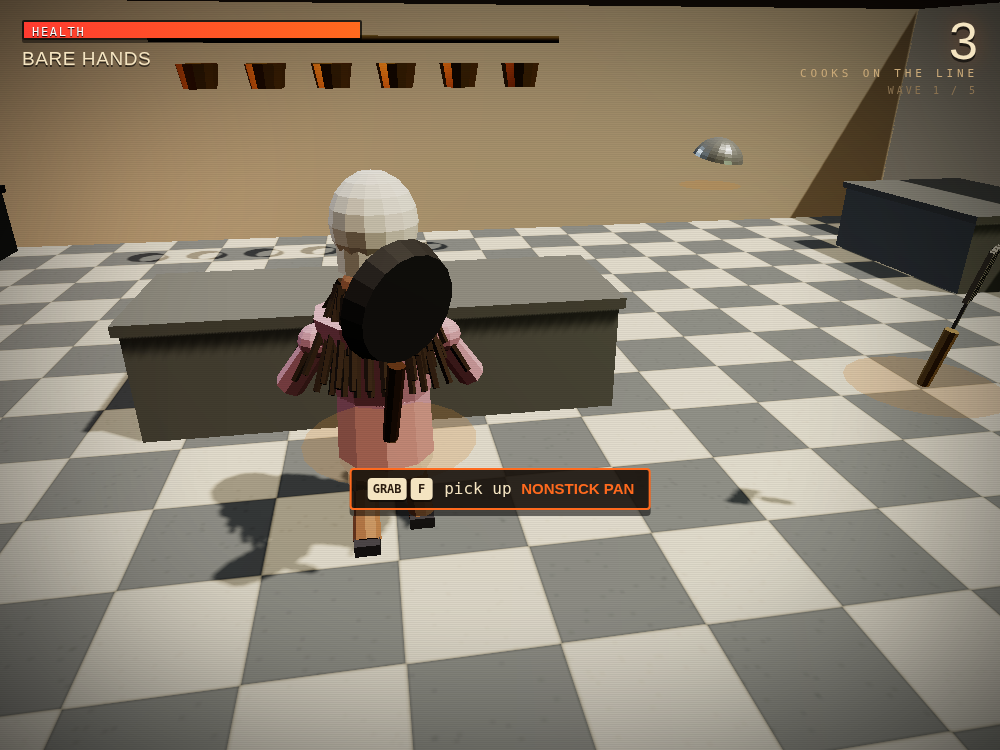
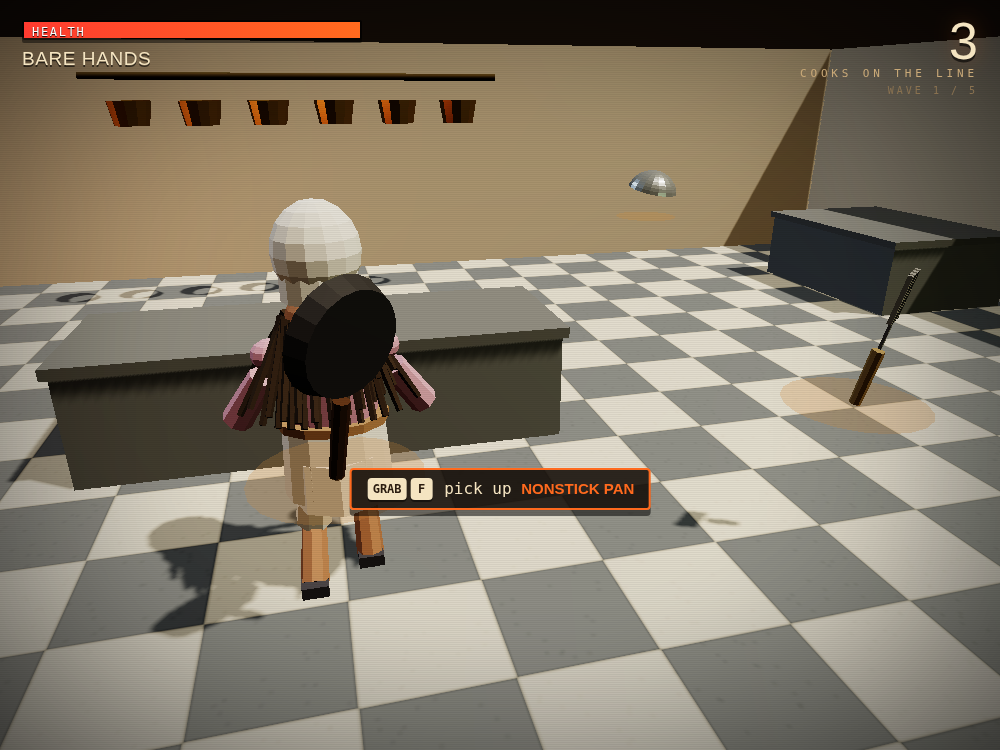
Rebuild the chef torso from her actual model, split at the waist
Direct answer to the developer's question ("why do we need to change the
model, can we not just rig the old model to short order"): we don't --
this replaces Short Order's generic torso cylinders with her real body
shapes outright, not a recolored/decorated approximation.

Split at the same two points Short Order's own code needs to grab
independently: `abMesh` (body-level; abMesh.rotation.x drives the
waist-bend animation) and `torso` (upper-level; the ragdoll's chest bone,
directly re-oriented via orientBone(u.torso, hipMid, shMid)). Both stay
individually-addressable Groups so those keep working. Everything above
the waist in her model -- core body, shoulder caps, neck, collar, waist
tie -- is now `torso`; her wrap-around apron alone is `abMesh`. Removed
the shoulder-cap patch added onto the arms last commit (redundant now
that the real torso has its own).

Non-`o.locs` callers (enemies) keep Short Order's original plain
cylinders and jacket buttons/apron-patch decoration -- this is her look
specifically, ported in, not a redesign of the generic customer model.

Two real iterations, not one: a first attempt scaled her chef.js numbers
by one blanket 1.35x factor to fit Short Order's taller rig, and it
rendered badly -- oversized floating shoulder caps, an apron cylinder
tall enough to overlap the chest. Caught by rendering and looking, not
assumed correct from the math. Redone by fitting each piece's dimensions
[…]

diff --git a/public/short-order/index.html b/public/short-order/index.html
@@ -557,19 +557,57 @@ function makeChef(o){
   const hips=new THREE.Mesh(new THREE.CylinderGeometry(0.30,0.32,0.34,8),apronMat);
   hips.position.y=0.82; hips.castShadow=true; body.add(hips);
   const jacketMat=M(o.jacket||0xece5d6,.72);
-  // lower abdomen (belly) — stays planted below the waist joint
-  const abMesh=new THREE.Mesh(new THREE.CylinderGeometry(0.315,0.335,0.46,10), jacketMat);
-  abMesh.position.y=0.99; abMesh.castShadow=true; body.add(abMesh);
-  // upper chest — broad at the shoulders, pinched to the waist; flexes on the spine
-  const torso=new THREE.Mesh(new THREE.CylinderGeometry(0.42,0.30,0.62,10), jacketMat);
-  torso.position.y=1.44; torso.castShadow=true; upper.add(torso);
   const cos=[];   // fiddly bits hidden during a ragdoll death
+
+  // Torso: her actual body model (preview/chef.js), not Short Order's generic
+  // cylinders -- split at the same two points Short Order's own code needs to
+  // grab independently: `abMesh` (body-level; abMesh.rotation.x drives the
+  // waist-bend animation) and `torso` (upper-level; the ragdoll's chest bone,
+  // directly re-oriented via orientBone(u.torso, hipMid, shMid)). Both must
+  // stay individually-addressable objects for those to keep working -- so
+  // everything above the waist (her core body, shoulder caps, neck, collar,
+  // waist tie) is grouped as `torso`; her wrap-around apron alone is `abMesh`.
+  // Non-`o.locs` callers (enemies) keep Short Order's original plain
+  // cylinders -- this is her look specifically, not a general redesign.
+  // Dimensions are fitted to Short Order's own torso "envelope" (its original
+  // radii/heights, below in the else branch) rather than her chef.js numbers
+  // scaled by one blanket factor -- a first attempt at a uniform 1.35x scale
+  // rendered badly (oversized, floating shoulder caps; an apron cylinder tall
+  // enough to overlap the chest), caught by actually looking, not assumed.
+  let abMesh, torso;
+  if(o.locs){
+    abMesh=new THREE.Group();
+    const apronBody=new THREE.Mesh(new THREE.CylinderGeometry(0.33,0.36,0.5,12),apronMat);
+    apronBody.scale.z=0.78; apronBody.castShadow=true; abMesh.add(apronBody);
+    abMesh.position.y=0.95; body.add(abMesh);
+
+    torso=new THREE.Group();
+    const core=new THREE.Mesh(new THREE.CylinderGeometry(0.34,0.28,0.58,12),jacketMat);
+    core.scale.z=0.8; core.castShadow=true; torso.add(core);
+    for(const sx of [-1,1]){
+      const cap=new THREE.Mesh(new THREE.SphereGeometry(0.12,10,8),jacketMat);
+      cap.scale.set(1,0.85,0.9); cap.position.set(sx*0.34,0.24,0); cap.castShadow=true; torso.add(cap);
+    }
+    const tie=new THREE.Mesh(new THREE.CylinderGeometry(0.36,0.36,0.06,12),M(0x6f4626,.7));
+    tie.scale.z=0.78; tie.position.y=-0.22; tie.castShadow=true; torso.add(tie);
+    const neck=new THREE.Mesh(new THREE.CylinderGeometry(0.11,0.12,0.14,10),skin);
+    neck.position.set(0,0.34,0.02); neck.castShadow=true; torso.add(neck);
+    const collar=new THREE.Mesh(new THREE.CylinderGeometry(0.19,0.21,0.1,12),jacketMat);
+    collar.position.set(0,0.27,0.02); collar.castShadow=true; torso.add(collar);
+    torso.position.y=1.44; upper.add(torso);
+  } else {
+    abMesh=new THREE.Mesh(new THREE.CylinderGeometry(0.315,0.335,0.46,10), jacketMat);
+    abMesh.position.y=0.99; abMesh.castShadow=true; body.add(abMesh);
+    torso=new THREE.Mesh(new THREE.CylinderGeometry(0.42,0.30,0.62,10), jacketMat);
+    torso.position.y=1.44; torso.castShadow=true; upper.add(torso);
+    // double-breasted jacket buttons + a flat apron patch -- her look has a
+    // real wrap-around apron (above) instead, so these are enemy-only now.
+    for(let i=0;i<3;i++){ for(const sx of [-1,1]){ const b=new THREE.Mesh(new THREE.SphereGeometry(0.028,6,5),M(0x2a2a2a,.6));
+      b.position.set(sx*0.09,1.16+i*0.16,0.34); upper.add(b); cos.push(b);} }
+    const apronPatch=new THREE.Mesh(new THREE.BoxGeometry(0.5,0.7,0.06),apronMat);
+    apronPatch.position.set(0,1.14,0.33); apronPatch.castShadow=true; upper.add(apronPatch); cos.push(apronPatch);
+  }
   cos.push(abMesh);
-  // double-breasted jacket buttons
-  for(let i=0;i<3;i++){ for(const sx of [-1,1]){ const b=new THREE.Mesh(new THREE.SphereGeometry(0.028,6,5),M(0x2a2a2a,.6));
-    b.position.set(sx*0.09,1.16+i*0.16,0.34); upper.add(b); cos.push(b);} }
-  const apron=new THREE.Mesh(new THREE.BoxGeometry(0.5,0.7,0.06),apronMat);
-  apron.position.set(0,1.14,0.33); apron.castShadow=true; upper.add(apron); cos.push(apron);
   let scarf=null;
   if(o.scarf){
     scarf=new THREE.Mesh(new THREE.TorusGeometry(0.2,0.06,6,14,Math.PI*1.2),M(o.scarf,.6));
@@ -637,13 +675,6 @@ function makeChef(o){
     const hand=new THREE.Group();
     const fist=new THREE.Mesh(new THREE.SphereGeometry(0.1,10,8),skin); fist.castShadow=true; hand.add(fist);
     upper.add(uArm); upper.add(fArm); upper.add(hand);
-    // shoulder cap: rounds off the sleeve/torso seam, matching her rounder
-    // shoulder silhouette (preview/chef.js's shoulder-cap balls on the torso).
-    if(o.locs){
-      const cap=new THREE.Mesh(new THREE.SphereGeometry(0.12,10,8),jacketMat);
-      cap.scale.set(1,0.95,1); cap.position.set((i===0?-0.4:0.4),1.56,0); cap.castShadow=true;
-      upper.add(cap); cos.push(cap);
-    }
     arms.push({ up:uArm, fore:fArm, hand, fist,
       sh:new V3((i===0?-0.4:0.4),1.54,0),
       tgt:new V3((i===0?-0.32:0.34),1.34,0.36), elb:new V3() });
@@ -663,7 +694,7 @@ function makeChef(o){
   root.userData = {
     body, spine, upper, torso, abMesh, head, hips, toque, arms, legs, armL, armR, cos,
     dHead: deform(SQUISH.headMax),
-    mats:{ skin, jacket:torso.material, apron:apronMat, scarf:scarf?scarf.material:null },
+    mats:{ skin, jacket:jacketMat, apron:apronMat, scarf:scarf?scarf.material:null },
     weaponGroup:null, weaponKey:'fists',
     rest:{ torso:{p:torso.position.clone(),q:torso.quaternion.clone(),s:torso.scale.clone()},
            head:head.position.clone(), hips:hips.position.clone(), toque:toque.position.clone() }